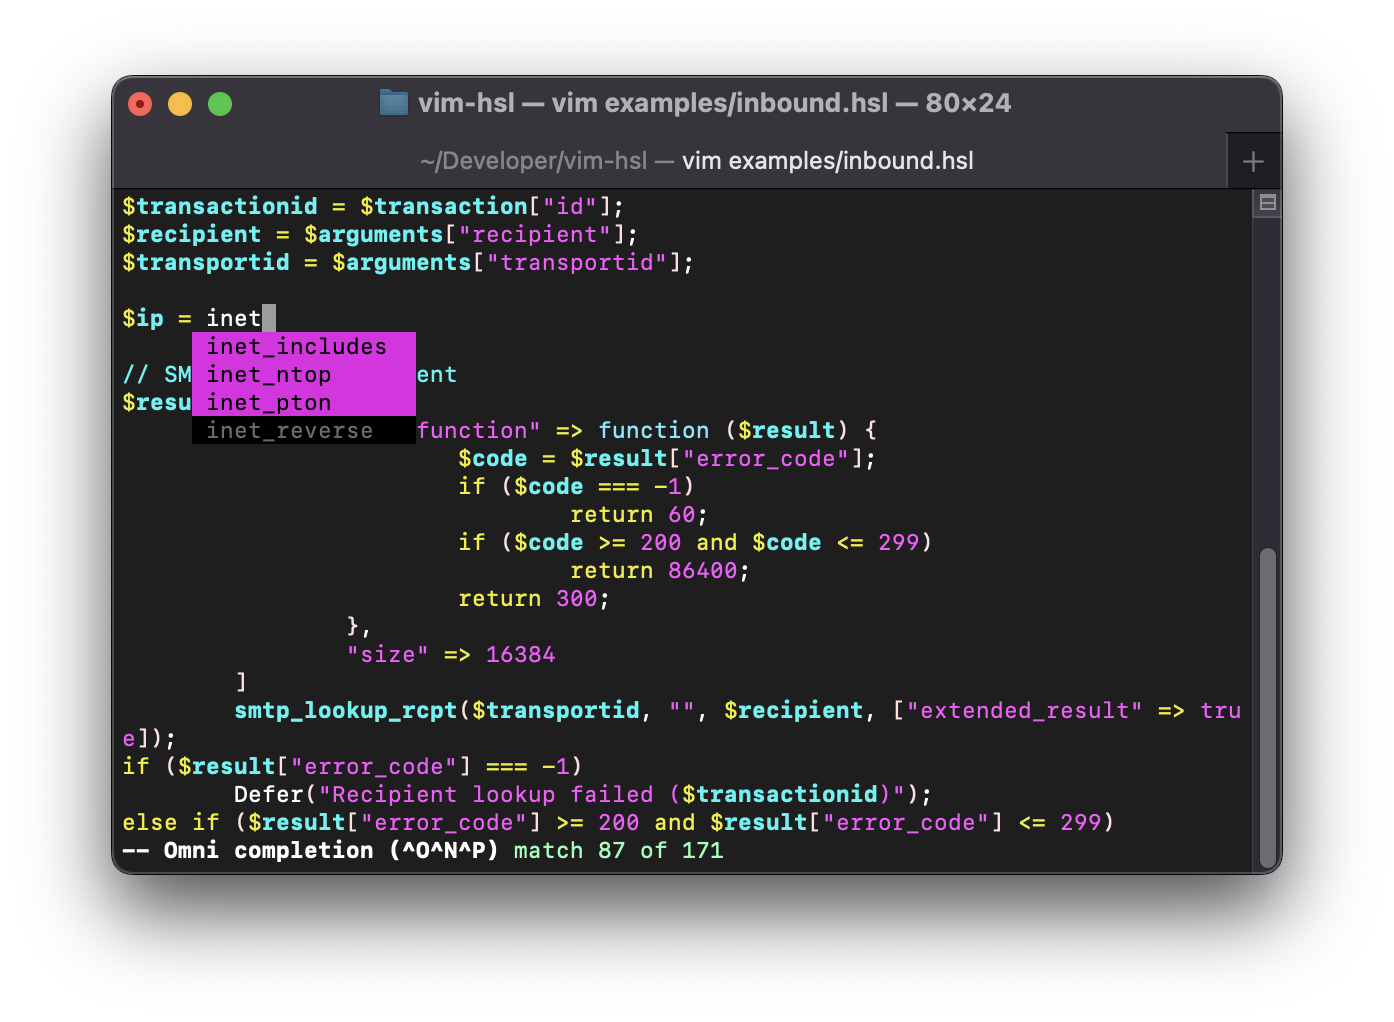
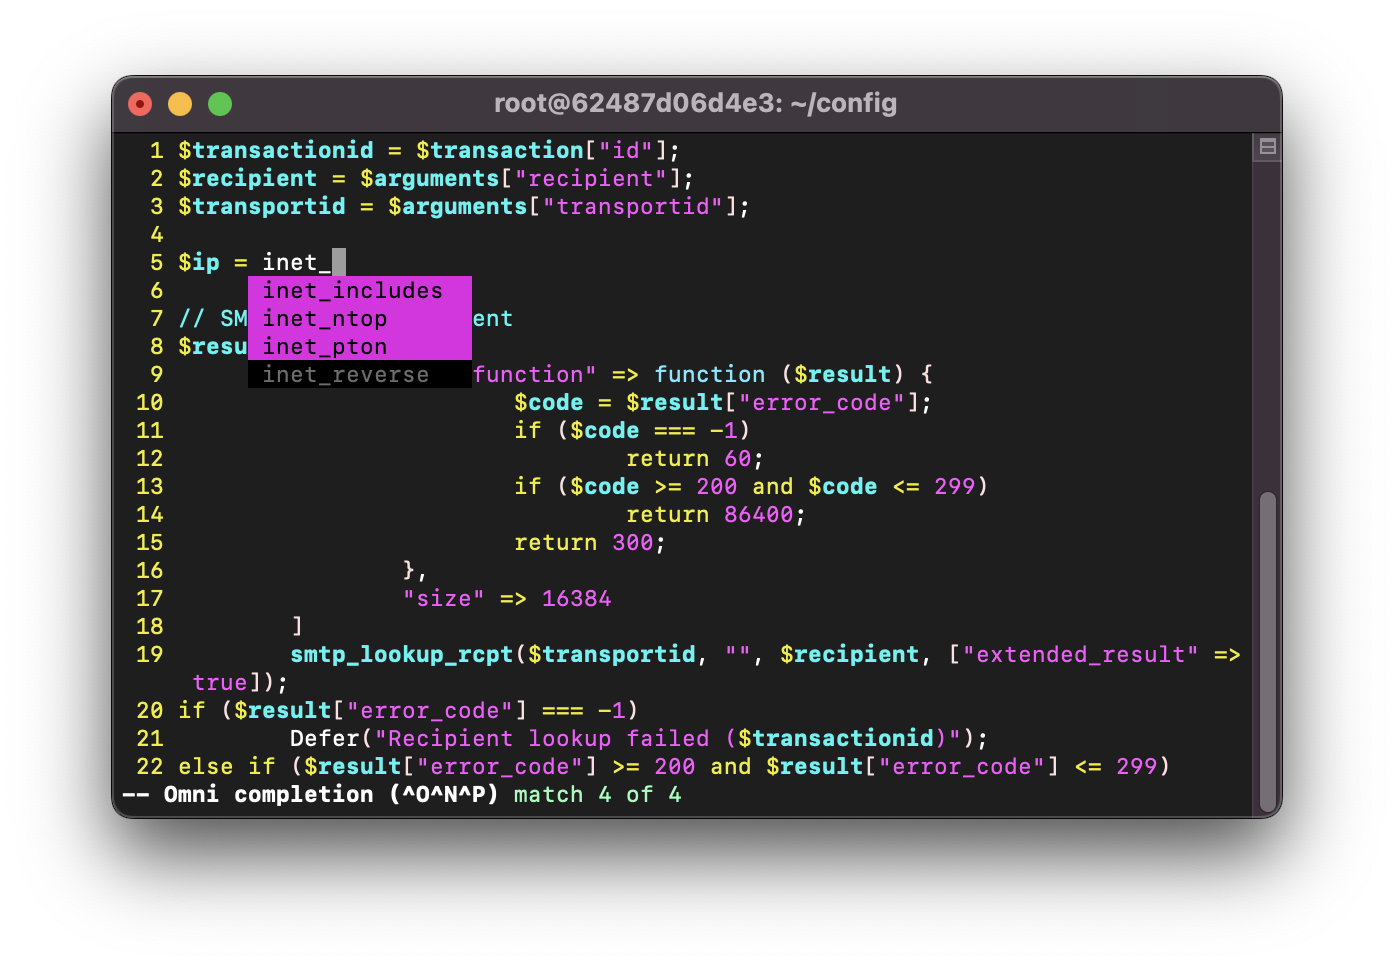
Add additional screenshot

Changed region(s): [[0.0617, 0.0621, 0.9254, 0.8696], [0.8945, 0.4969, 0.9254, 0.559]]

diff --git a/README.md b/README.md
@@ -38,3 +38,6 @@ git -C ~/.vim/pack/vendor/start/vim-hsl pull
 <p align="center">
   <img src="screenshots/screenshot-1.png" width="697"/>
 </p>
+<p align="center">
+  <img src="screenshots/screenshot-2.png" width="697"/>
+</p>
